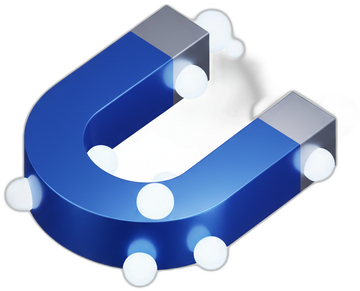
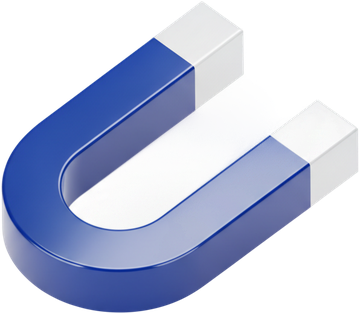
site: перевырезал магнит (isnet+alpha-matting, чистые края) + 3 приёма с референса systemblog в кобальт-стиле: закреплённая ГОРИЗОНТАЛЬНАЯ галерея-тур по дашборду (пин+проезд вбок+прогресс-бар, 7 экранов), бесконечная маркиза-тикер рынков/метрик, 3D-тилт карточек от курсора

diff --git a/public/site.html b/public/site.html
@@ -913,6 +913,25 @@ html[data-theme="dark"] .pcard .hrlist svg{color:var(--sky)}
   </div>
 </header>
 
+<!-- MARQUEE TICKER -->
+<style>
+.marq{overflow:hidden;border-block:1px solid var(--line);background:var(--card);padding:15px 0;white-space:nowrap;-webkit-mask:linear-gradient(90deg,transparent,#000 7%,#000 93%,transparent);mask:linear-gradient(90deg,transparent,#000 7%,#000 93%,transparent)}
+.marq-track{display:inline-flex;align-items:center;gap:38px;animation:marq 34s linear infinite;will-change:transform}
+.marq:hover .marq-track{animation-play-state:paused}
+.marq-track i{font-style:normal;font-family:var(--disp);font-weight:800;font-size:clamp(17px,2vw,27px);letter-spacing:-.01em;color:var(--ink);display:inline-flex;align-items:center;gap:38px}
+.marq-track i::after{content:"";width:7px;height:7px;border-radius:50%;background:var(--blue)}
+@keyframes marq{to{transform:translateX(-50%)}}
+</style>
+<div class="marq" aria-hidden="true"><div class="marq-track" id="marqTrack"></div></div>
+<script>
+(function(){
+  var t=document.getElementById('marqTrack'); if(!t) return;
+  var items=['Дубай','Испания','Кипр','Бали','Таиланд','54+ проектов','$15 средний CPL','5+ языков','825 лидов за 4 мес','17 сделок · Baytify','3 380+ лидов · Alegria','недвижимость'];
+  var html=items.map(function(x){return '<i>'+x+'</i>';}).join('');
+  t.innerHTML=html+html; // дубль для бесшовной петли -50%
+})();
+</script>
+
 <!-- INDUSTRY GAP -->
 <section class="sec wrap" id="gap" style="padding-top:clamp(40px,6vw,80px)">
   <div class="gap" data-r>
@@ -1226,6 +1245,62 @@ html[data-theme="dark"] .pcard .hrlist svg{color:var(--sky)}
     </div>
   </div>
 </section>
+
+<!-- HORIZONTAL PINNED GALLERY -->
+<style>
+.hgal{position:relative;height:360vh;background:linear-gradient(180deg,var(--bg),color-mix(in srgb,var(--blue) 5%,var(--bg)),var(--bg))}
+.hgal-pin{position:absolute;top:0;left:0;width:100%;height:100vh;overflow:hidden;display:flex;flex-direction:column;justify-content:center}
+.hgal-head{text-align:center;padding:0 20px 24px;position:relative;z-index:3}
+.hgal-head h2{margin-top:10px}
+.hgal-track{display:flex;gap:26px;padding:0 max(8vw,24px);will-change:transform}
+.hslide{flex:0 0 auto;width:min(72vw,700px);border-radius:20px;overflow:hidden;border:1px solid var(--line);box-shadow:var(--shadow-lg);background:var(--card);position:relative}
+.hslide img{width:100%;display:block;aspect-ratio:1440/900;object-fit:cover;object-position:top left}
+.hslide .num{position:absolute;top:12px;left:14px;z-index:2;font-family:var(--disp);font-weight:800;font-size:15px;color:#fff;background:rgba(37,99,235,.9);width:30px;height:30px;border-radius:9px;display:flex;align-items:center;justify-content:center;box-shadow:0 8px 20px -6px rgba(37,99,235,.6)}
+.hslide .cap{position:absolute;left:0;right:0;bottom:0;padding:22px 18px 16px;background:linear-gradient(transparent,rgba(6,11,22,.86));color:#fff}
+.hslide .cap b{font-family:var(--disp);font-weight:800;font-size:19px;letter-spacing:-.01em;display:block}
+.hslide .cap span{font-size:13px;color:rgba(255,255,255,.82)}
+.hgal-prog{position:absolute;left:max(8vw,24px);right:max(8vw,24px);bottom:6vh;height:3px;border-radius:3px;background:var(--line);z-index:3}
+.hgal-prog i{display:block;height:100%;width:0;border-radius:3px;background:linear-gradient(90deg,var(--blue),var(--sky))}
+@media(max-width:640px){.hgal{height:300vh}.hslide{width:80vw;border-radius:15px}.hgal-prog{bottom:10vh}}
+</style>
+<section class="hgal" id="hgal" aria-label="Тур по дашборду">
+  <div class="hgal-pin">
+    <div class="hgal-head">
+      <span class="kicker"><span class="dot"></span>Один экран — весь отдел</span>
+      <h2>Весь дашборд — <em>листайте вбок</em></h2>
+    </div>
+    <div class="hgal-track" id="hgalTrack">
+      <div class="hslide"><span class="num">1</span><img src="/assets/site/cap-funnel.png" alt="Воронка" loading="lazy"><div class="cap"><b>Воронка и стадии</b><span>каждый лид и сделка — на виду</span></div></div>
+      <div class="hslide"><span class="num">2</span><img src="/assets/site/cap-leadcard.png" alt="Карточка лида" loading="lazy"><div class="cap"><b>Карточка лида</b><span>переписка, психо-портрет, история</span></div></div>
+      <div class="hslide"><span class="num">3</span><img src="/assets/site/cap-ai.png" alt="Первая линия" loading="lazy"><div class="cap"><b>Первая линия отвечает</b><span>WhatsApp за секунды, из коробки</span></div></div>
+      <div class="hslide"><span class="num">4</span><img src="/assets/site/cap-comments.png" alt="Комментарии" loading="lazy"><div class="cap"><b>Комментарии → лиды</b><span>ловим тех, кого не видят конкуренты</span></div></div>
+      <div class="hslide"><span class="num">5</span><img src="/assets/site/cap-collections.png" alt="Подборки" loading="lazy"><div class="cap"><b>Живые подборки объектов</b><span>конструктор под клиента</span></div></div>
+      <div class="hslide"><span class="num">6</span><img src="/assets/site/cap-analytics.png" alt="Аналитика" loading="lazy"><div class="cap"><b>Аналитика и план-факт</b><span>деньги и эффективность в цифрах</span></div></div>
+      <div class="hslide"><span class="num">7</span><img src="/assets/site/cap-tasks.png" alt="Задачи" loading="lazy"><div class="cap"><b>Задачи брокера</b><span>ничего не забыто, никто не выгорает</span></div></div>
+    </div>
+    <div class="hgal-prog"><i id="hgalProg"></i></div>
+  </div>
+</section>
+<script>
+(function(){
+  var sec=document.getElementById('hgal'); if(!sec) return;
+  var pin=sec.querySelector('.hgal-pin'), track=document.getElementById('hgalTrack'), prog=document.getElementById('hgalProg');
+  function frame(){
+    var r=sec.getBoundingClientRect();
+    var total=sec.offsetHeight-innerHeight;
+    var p=total>0?Math.max(0,Math.min(1,(-r.top)/total)):0;
+    if(r.top>0){ pin.style.position='absolute'; pin.style.top='0px'; }
+    else if(r.top < -total){ pin.style.position='absolute'; pin.style.top=total+'px'; }
+    else { pin.style.position='fixed'; pin.style.top='0px'; }
+    var max=Math.max(0,track.scrollWidth-innerWidth);
+    // ease-in/out a touch so ends breathe
+    track.style.transform='translateX('+(-p*max)+'px)';
+    if(prog) prog.style.width=(p*100)+'%';
+  }
+  addEventListener('scroll',function(){requestAnimationFrame(frame);},{passive:true});
+  addEventListener('resize',frame); addEventListener('load',frame); frame();
+})();
+</script>
 
 <!-- WHATSAPP SCENE -->
 <section class="sec wrap" id="scene">
@@ -1829,6 +1904,19 @@ if(matchMedia('(max-width:640px)').matches){
   addEventListener('scroll',function(){requestAnimationFrame(drive);},{passive:true});
   addEventListener('resize',drive); drive();
 })();
+
+// 3D-тилт карточек от курсора (только hover-устройства)
+if(matchMedia('(hover:hover)').matches){
+  document.querySelectorAll('.niche,.ccase,.gap-item,.pcard').forEach(function(c){
+    c.style.transformStyle='preserve-3d';
+    c.addEventListener('pointermove',function(e){
+      var r=c.getBoundingClientRect();
+      var x=(e.clientX-r.left)/r.width-0.5, y=(e.clientY-r.top)/r.height-0.5;
+      c.style.transform='perspective(760px) rotateY('+(x*7).toFixed(2)+'deg) rotateX('+(-y*7).toFixed(2)+'deg) translateY(-6px)';
+    });
+    c.addEventListener('pointerleave',function(){c.style.transform='';});
+  });
+}
 
 // count-up numbers
 const _cuReduced=matchMedia('(prefers-reduced-motion: reduce)').matches;
